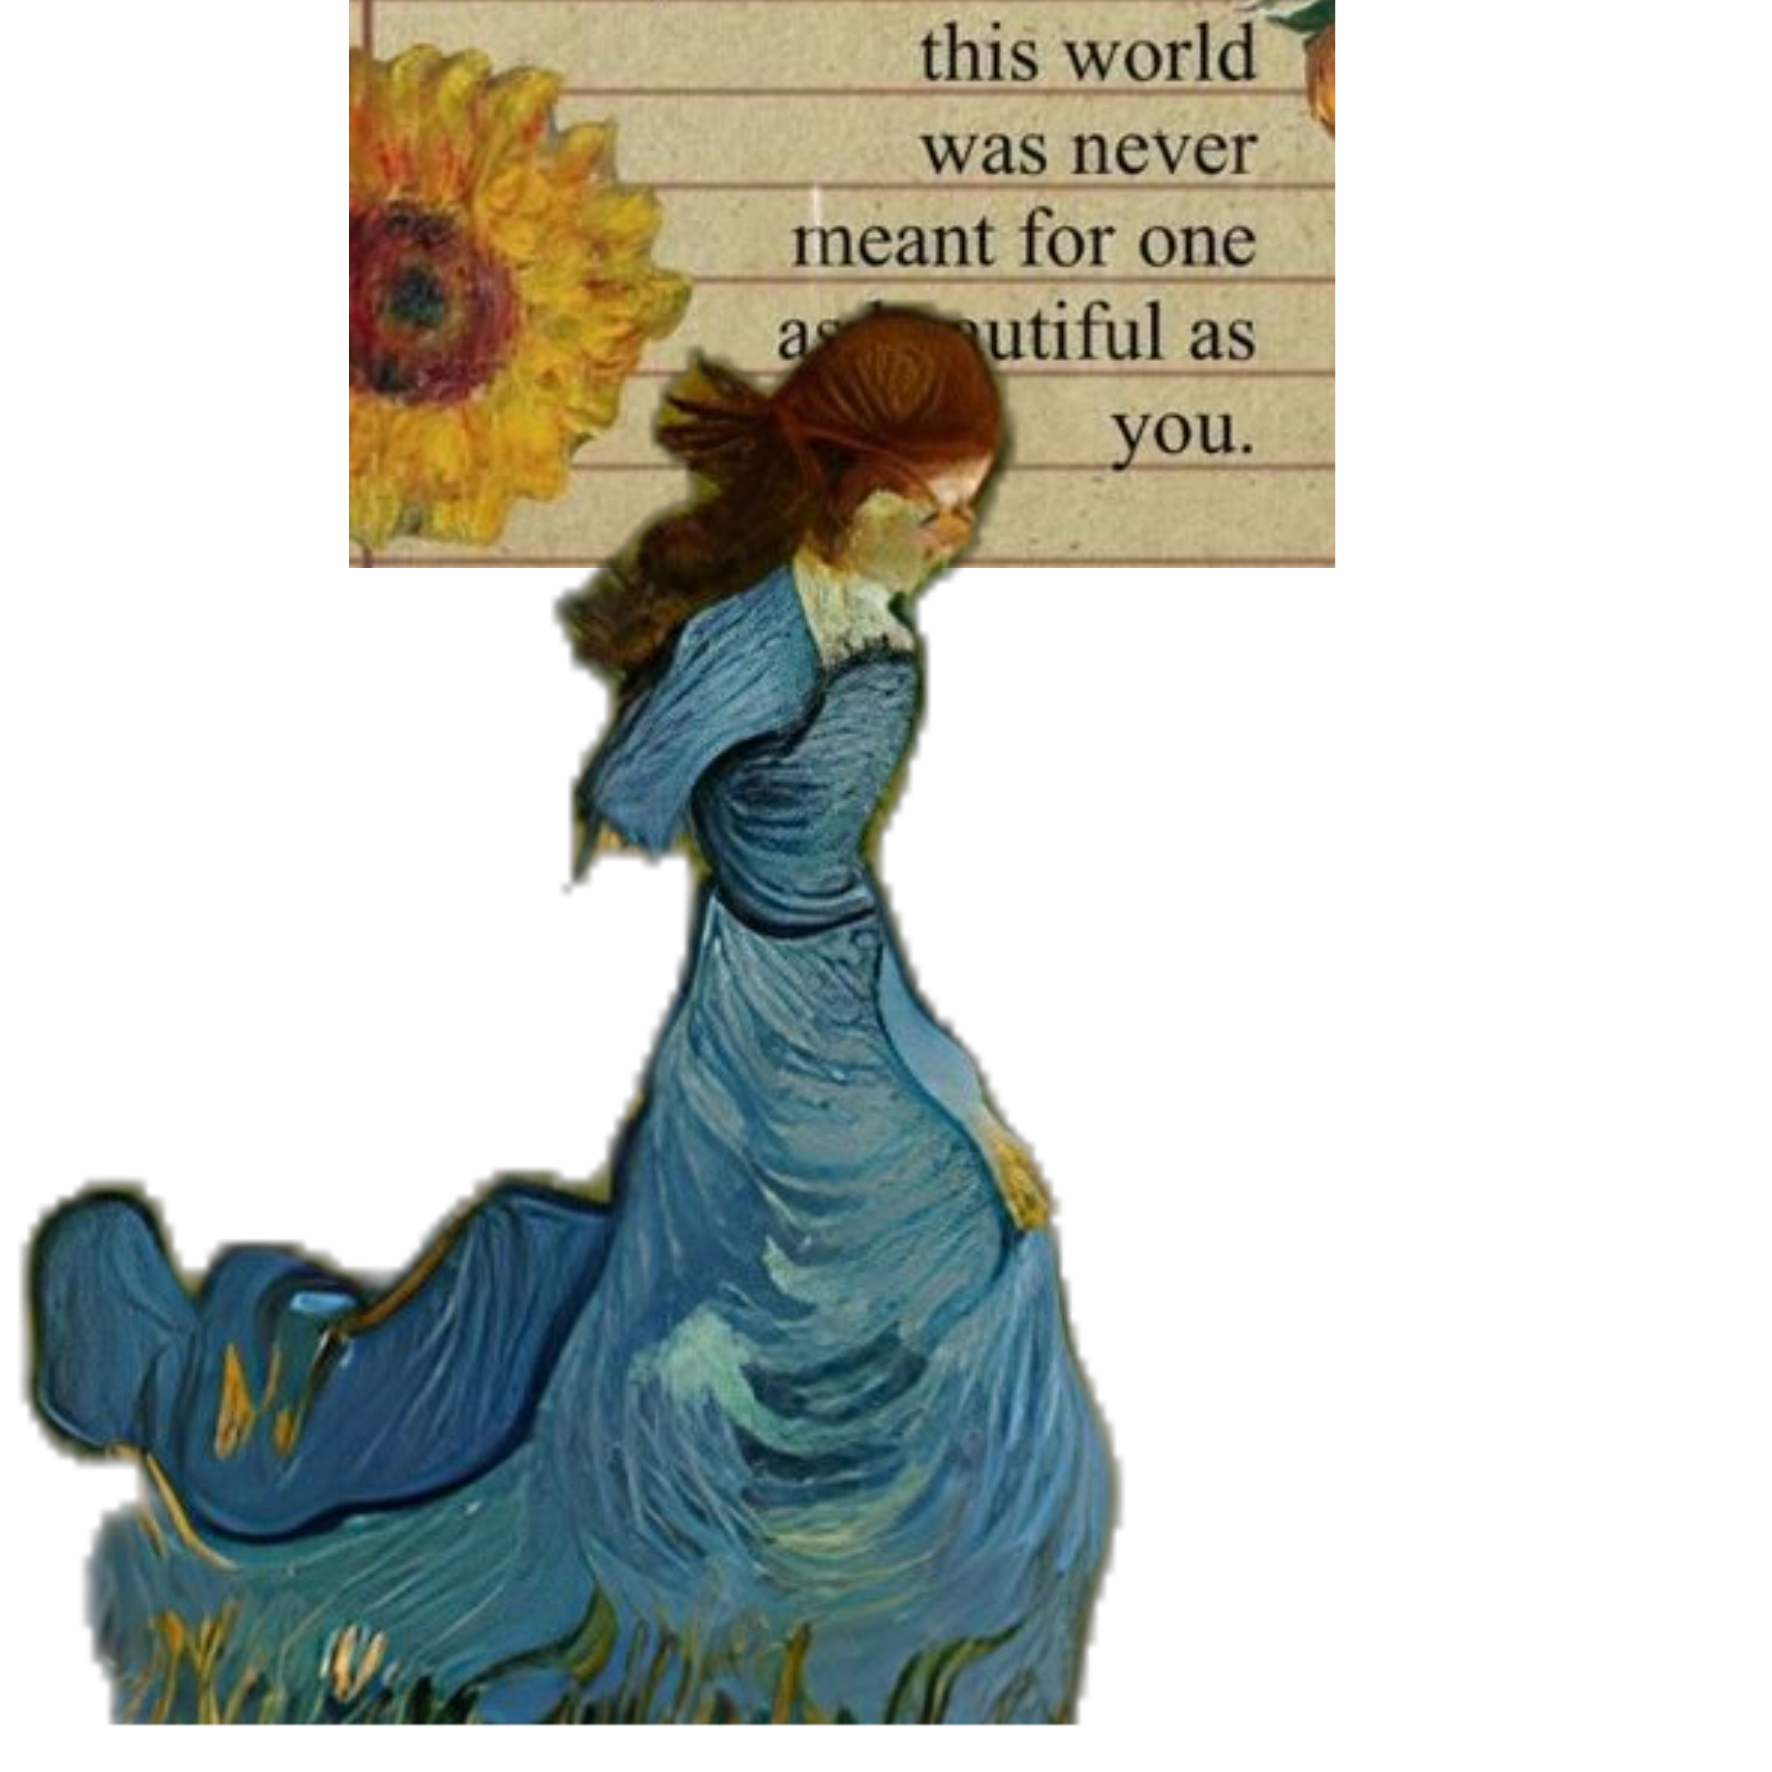
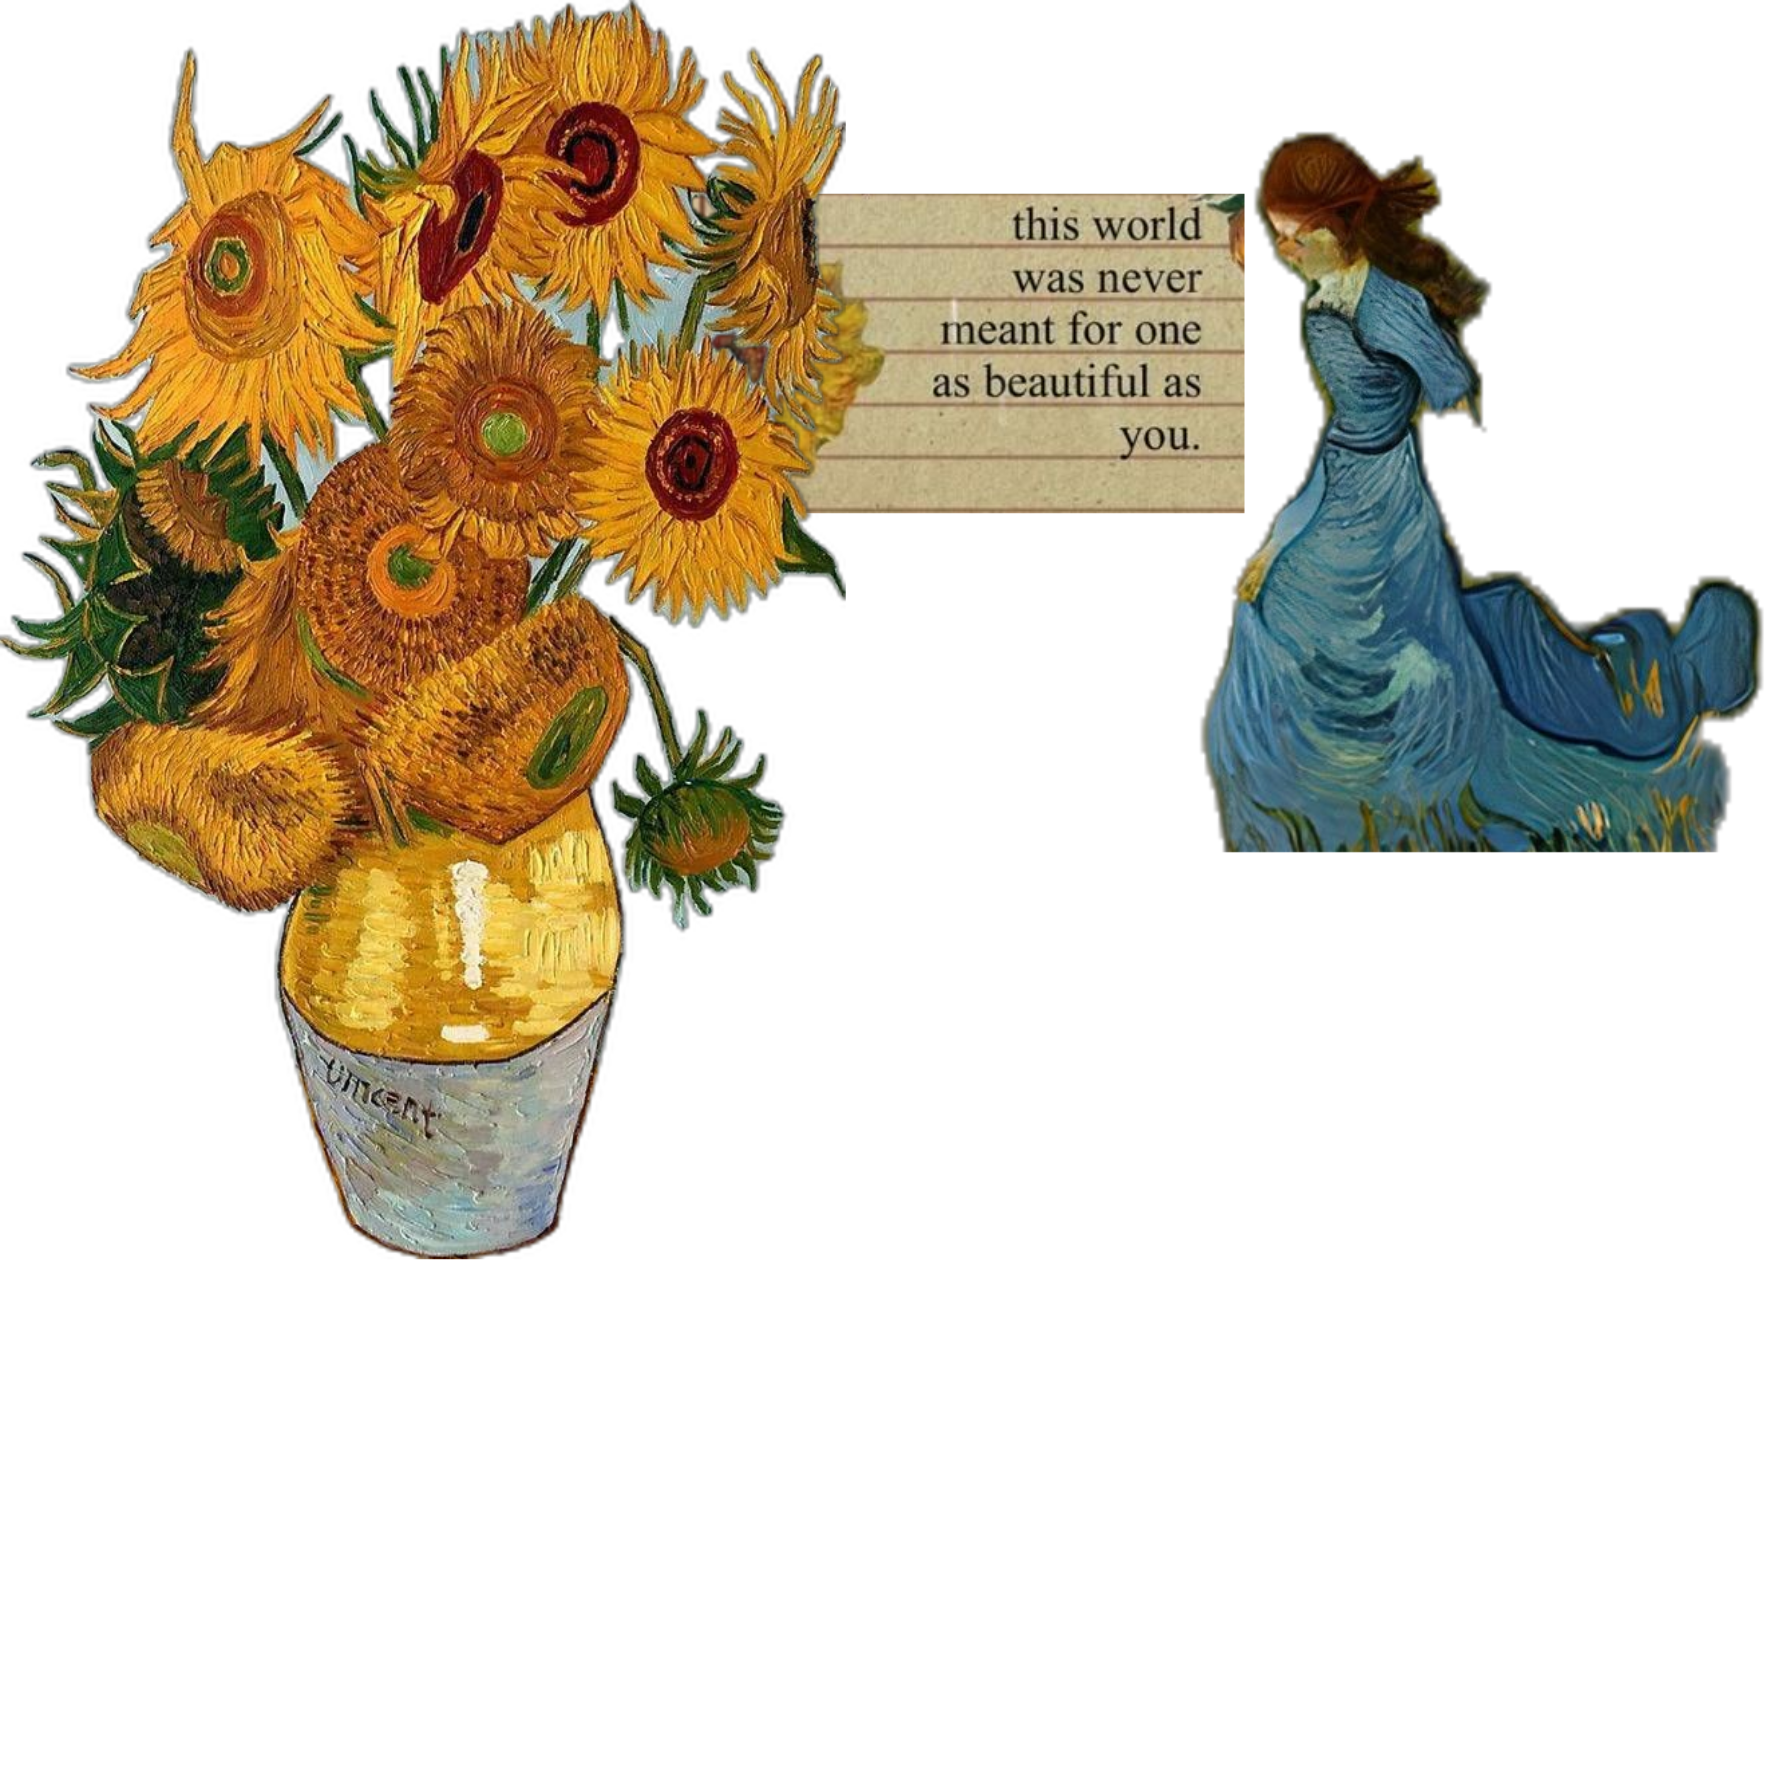
frames

diff --git a/resources/views/admin/frames/templates/sunflower.blade.php b/resources/views/admin/frames/templates/sunflower.blade.php
@@ -23,11 +23,11 @@
         </div>
     </div>
 
-    <div class="absolute z-[30] top-[120px] right-[-115px]  pointer-events-none">
-        <img src="{{ asset('sunflow/sunflow4.png') }}" alt="Logo" class="h-[140px] w-auto ">
-    </div>
-    <div class="absolute z-[40] top-[215px] left-[-35px] scale-x-[-1] pointer-events-none">
+    <div class="absolute z-[30] top-[120px] right-[-25px]  pointer-events-none">
         <img src="{{ asset('sunflow/sunflow3.png') }}" alt="Logo" class="h-[90px] w-auto ">
+    </div>
+    <div class="absolute z-[40] top-[215px] left-[-10px] pointer-events-none">
+        <img src="{{ asset('sunflow/sunflow4.png') }}" alt="Logo" class="h-[140px] w-auto ">
     </div>
 
 
@@ -66,11 +66,8 @@
     <div class=" z-[50] relative bottom-[35px] left-[-4px] ">
         <img src="{{ asset('panoricam2.png') }}" alt="Logo" class="h-[15px] w-auto mx-auto ">
     </div>
-    <div class=" z-[50] relative bottom-[145px] right-[-90px] pointer-events-none ">
-        <img src="{{ asset('sunflow/sunflow6.png') }}" alt="Logo" class="h-[140px] w-auto mx-auto ">
-    </div>
-    <div class=" z-[40] relative bottom-[275px] left-[-65px] pointer-events-none ">
-        <img src="{{ asset('sunflow/sunflow5.png') }}" alt="Logo" class="h-[130px] w-auto mx-auto ">
+    <div class=" z-[40] relative bottom-[148px] left-[-2px] pointer-events-none ">
+        <img src="{{ asset('sunflow/sunflow5.png') }}" alt="Logo" class="h-[300px] w-auto mx-auto ">
     </div>
     
 

diff --git a/resources/views/admin/frames/templates/tiket.blade.php b/resources/views/admin/frames/templates/tiket.blade.php
@@ -66,14 +66,14 @@
         </div>
     </div>
 
-    <div class=" z-[50] relative bottom-[35px] left-[7px] ">
+    <div class=" z-[50] relative bottom-[30px] left-[7px] ">
         <img src="{{ asset('panoricam2.png') }}" alt="Logo" class="h-[15px] w-auto mx-auto ">
     </div>
-    <div class="absolute z-[40] top-[375px] right-[30px]  pointer-events-none">
+    <div class="absolute z-[40] top-[395px] right-[40px]  pointer-events-none">
         <img src="{{ asset('tiket/tiket5.png') }}" alt="Logo" class="h-[100px] w-auto ">
     </div>
-    <div class="absolute z-[40] top-[305px] right-[-40px]  pointer-events-none">
-        <img src="{{ asset('tiket/tiket6.png') }}" alt="Logo" class="h-[130px] w-auto ">
+    <div class="absolute z-[40] top-[330px] right-[-66px]  pointer-events-none">
+        <img src="{{ asset('tiket/tiket6.png') }}" alt="Logo" class="h-[180px] w-auto ">
     </div>
     
 

diff --git a/resources/views/admin/frames/templates/van.blade.php b/resources/views/admin/frames/templates/van.blade.php
@@ -66,11 +66,11 @@
         </div>
     </div>
 
-    <div class=" z-[50] relative bottom-[75px] left-[-4px] ">
+    <div class=" z-[50] relative bottom-[30px] left-[-4px] ">
         <img src="{{ asset('panoricam2.png') }}" alt="Logo" class="h-[15px] w-auto mx-auto ">
     </div>
-    <div class=" z-[40] relative bottom-[245px] left-[-5px] pointer-events-none ">
-        <img src="{{ asset('van/van6.png') }}" alt="Logo" class="h-[300px] w-auto mx-auto ">
+    <div class=" z-[40] relative bottom-[225px] left-[-5px] pointer-events-none ">
+        <img src="{{ asset('van/van6.png') }}" alt="Logo" class=" h-[250px] w-auto mx-auto ">
     </div>
 
 
